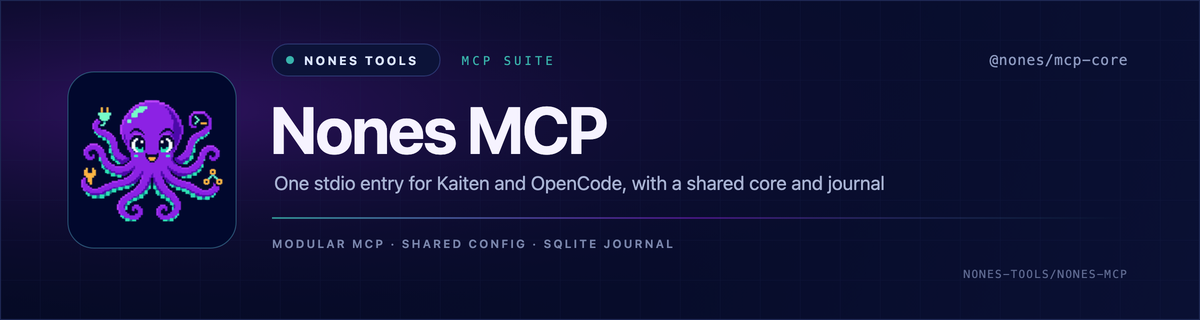
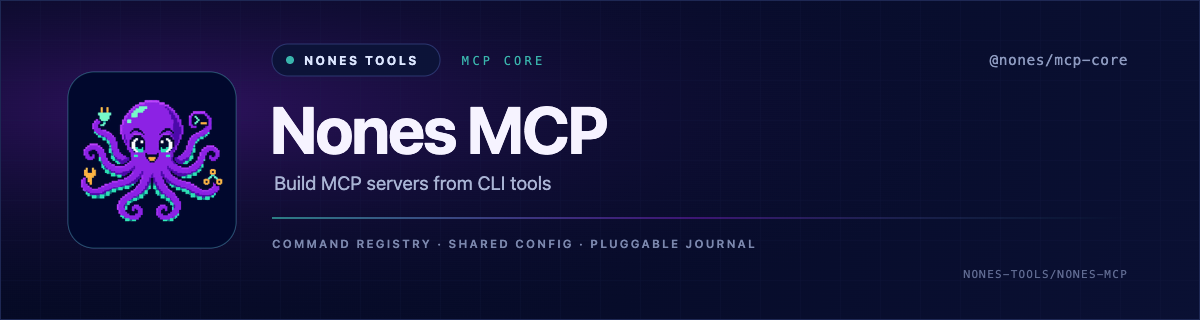
docs: clarify Nones MCP and illustrate DSH setup

diff --git a/apps/dsh/README.md b/apps/dsh/README.md
@@ -1,3 +1,5 @@
+[![DSH Session MCP banner with the Nones pixel octopus](https://raw.githubusercontent.com/nones-tools/nones-mcp/main/apps/dsh/docs/assets/banner.png)](https://github.com/nones-tools/nones-mcp/tree/main/apps/dsh)
+
 # @nones/dsh-session-mcp
 
 MCP (Model Context Protocol) server for **DeepSeek Harness sessions** — lets Claude Code,
@@ -7,7 +9,7 @@ switch their model.
 
 Ships as a DeepSeek Harness plugin: installing the bundle starts a bearer-authenticated MCP
 endpoint **together with the harness**, publishes a copy-ready client config, and adds a
-**Settings → MCP** page with live status, the last few requests and every snippet you need.
+**Settings → DeepSeek MCP** page with live status, the last few requests and client configuration snippets.
 No sidecar process to babysit, no port to guess, no second writer on the session log.
 
 ```
@@ -105,6 +107,10 @@ session_send  { sessionId: <new> }   → try the alternative there
 ```
 
 ## Settings → DeepSeek MCP
+
+![DeepSeek MCP settings in the Harness web UI showing listener status, recent requests, connection settings and client configuration snippets](https://raw.githubusercontent.com/nones-tools/nones-mcp/main/apps/dsh/docs/assets/settings.png)
+
+The screenshot uses example request history and a placeholder token.
 
 The harness renders a dedicated settings page. It shows:
 

diff --git a/README.md b/README.md
@@ -1,12 +1,14 @@
-![Nones MCP — the Nones pixel octopus beside the Nones MCP wordmark](assets/brand/banner-nones-mcp.png)
+![Nones MCP — build MCP servers from CLI tools](assets/brand/banner-nones-mcp.png)
 
 # Nones MCP
 
-**Nones MCP** is the Bun monorepo for the `@nones` MCP suite: one shared
-runtime for [Kaiten](apps/kaiten), [OpenCode](apps/opencode) and the
-[DeepSeek Harness session bundle](apps/dsh), plus a local operation journal. It
-is developed at
-[github.com/nones-tools/nones-mcp](https://github.com/nones-tools/nones-mcp).
+**Nones MCP** is a shared toolkit for building MCP servers from CLI tools.
+With [`@nones/mcp-core`](apps/core), you can define an action once and expose
+it as a CLI command, an MCP tool, or both. The runtime includes a module
+system, shared configuration, and optional journaling with pluggable adapters.
+
+The Bun monorepo also contains the [Kaiten](apps/kaiten),
+[OpenCode](apps/opencode), and [DeepSeek Harness](apps/dsh) integrations.
 
 ## Packages
 

diff --git a/assets/brand/README.md b/assets/brand/README.md
@@ -9,6 +9,7 @@ in-repo, raster-friendly, and safe to embed in GitHub and npm READMEs.
 | `banner-nones-mcp.svg` / `.png` | Root README banner for the Nones MCP monorepo |
 | `../../apps/kaiten/docs/assets/banner.svg` / `.png` | Kaiten MCP banner |
 | `../../apps/opencode/docs/assets/banner.svg` / `.png` | OpenCode MCP banner |
+| `../../apps/dsh/docs/assets/banner.svg` / `.png` | DSH Session MCP banner |
 
 ## Rendering rules
 
